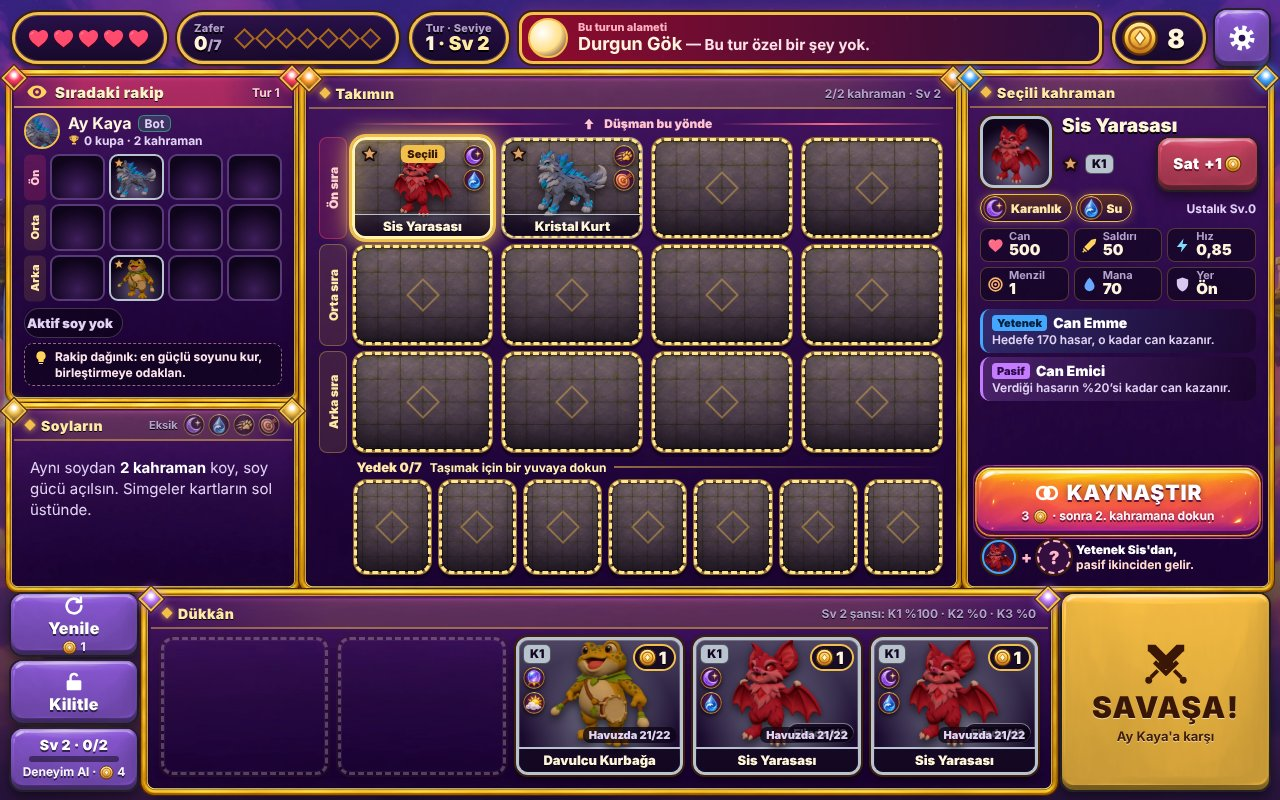
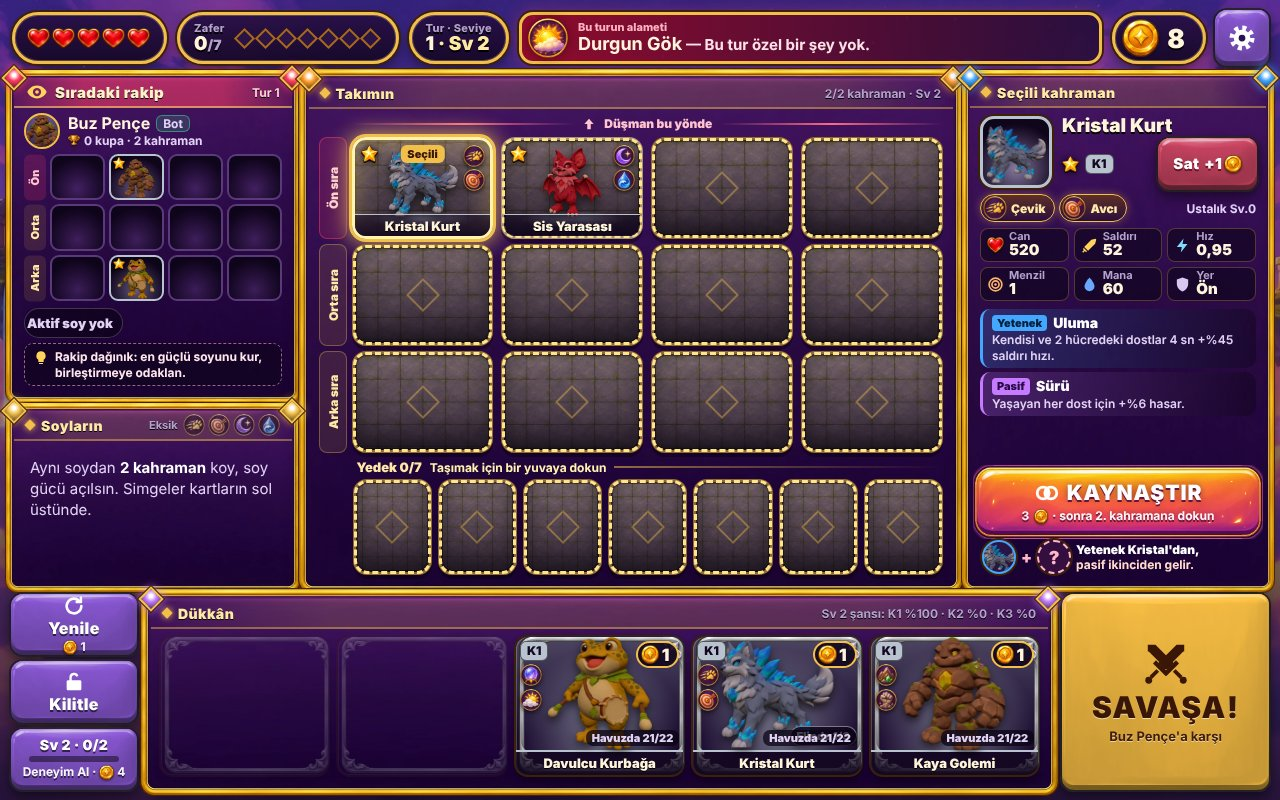
Kut Arena: HUD simgeleri, 8 alamet resmi, kademe renkli kart çerçevesi ve dönen Kut ışın halkası
Claude-Session: https://claude.ai/code/session_013YjY38u1QoWroDMBh9Egyh

diff --git a/kut/web/arayuz.js b/kut/web/arayuz.js
@@ -8,7 +8,9 @@ const oyun = new Oyun();
 const $ = (id) => document.getElementById(id);
 const q = (sel, kok = document) => kok.querySelector(sel);
 const P = (id) => `../arayuz/portre/${id}.png`, SY = (id) => `../arayuz/soy_${id}.png`;
-const ik = (n, c = '') => `<svg class="ik ${c}"><use href="#i-${n}"/></svg>`;
+const IK_RESIM = { coin: 'ik_altin', kalp: 'ik_kalp', kupa: 'ik_kupa', tac: 'ik_tac', yildiz: 'ik_yildiz_altin' };
+const ik = (n, c = '') => IK_RESIM[n] ? `<img class="ik ${c}" alt="" src="../arayuz/ui/${IK_RESIM[n]}${n === 'kalp' && /\bbos\b/.test(c) ? '_bos' : ''}.png">` : `<svg class="ik ${c}"><use href="#i-${n}"/></svg>`;
+const alametArka = (id) => `background:url(../arayuz/ui/al_${id}.png) center/cover`;
 const yildiz = (s) => `<div class="yildizlar y${s}">${ik('yildiz').repeat(s)}</div>`;
 const soyIk = (s) => `<img class="soyIk" src="${SY(s)}" alt="${D.SOYLAR[s].ad}">`;
 const mad = (id) => `<div class="madalyon"><img src="${P(id)}" alt=""></div>`;
@@ -138,7 +140,7 @@ function macCiz() {
   roz[1].innerHTML = `<div class="yz"><small>Zafer</small>${M.zafer}<span style="color:var(--soluk);font-size:14px">/${kr.zaferHedef}</span></div><div class="zaferler">${Array.from({ length: kr.zaferHedef }, (_, i) => `<i class="${i < M.zafer ? 'v' : ''}"></i>`).join('')}</div>`;
   roz[2].innerHTML = `<div class="yz"><small>${sev ? 'Tur · Seviye' : 'Hızlı Maç · Tur'}</small>${M.tur}${sev ? ` <span style="color:var(--altinA)">· Sv ${M.seviye}</span>` : ''}</div>`;
   const al = D.ALAMETLER.find(a => a.id === M.alamet);
-  q('.alamet', m).innerHTML = `<div class="ay" style="background:radial-gradient(circle at 35% 35%,#fff,${ALAMET_RENK[M.alamet]} 55%,#3a0820)"></div><div class="t"><small>Bu turun alameti</small><b>${al.ad}</b> <span>— ${al.m}</span></div>`;
+  q('.alamet', m).innerHTML = `<div class="ay resim" style="${alametArka(M.alamet)}"></div><div class="t"><small>Bu turun alameti</small><b>${al.ad}</b> <span>— ${al.m}</span></div>`;
   q('.altinRozet', m).innerHTML = `<div class="top">${ik('coin')}</div>${M.altin}`;
   // rakip
   const r = M.rakip, rp = q('.rakip', m);
@@ -285,7 +287,7 @@ async function savasBaslat(sim, rakip) {
   Ses.cal('savas_basla');
   const s = $('savas');
   q('.rakipK', s).innerHTML = `<div class="amb"><img src="${P((rakip.takim || [])[0] ? rakip.takim[0].h : 'tilki')}" alt=""></div><div style="min-width:0"><small>${rakip.duello ? 'Düello' : 'Rakip · Tur ' + oyun.M.tur}</small><b>${rakip.ad}</b><span>${rakip.kaynak === 'bot' ? 'Bot' : 'Kupa ' + sayi(rakip.kupa || 0)}</span></div>`;
-  const a = savasBilgi.alamet; q('.alametK', s).innerHTML = `<span class="ay" style="background:radial-gradient(circle at 35% 35%,#fff,${ALAMET_RENK[a.id]} 55%,#3a0820)"></span><div><b>${a.ad}</b><span>${a.m}</span></div>`;
+  const a = savasBilgi.alamet; q('.alametK', s).innerHTML = `<span class="ay resim" style="${alametArka(a.id)}"></span><div><b>${a.ad}</b><span>${a.m}</span></div>`;
   if (!savasDongu) { savasDongu = true; requestAnimationFrame(savasKare); }
 }
 function hizUygula() { S3.hiz(duraklat ? 0 : hizSecim); document.querySelectorAll('#savas .hizlar .btn').forEach((b, i) => { b.classList.toggle('secik', i + 1 === hizSecim); b.classList.toggle('altin', i + 1 === hizSecim); b.classList.toggle('mor', i + 1 !== hizSecim); }); q('#savas .duraklat .btn').innerHTML = ik(duraklat ? 'oyna' : 'durdur'); }

diff --git a/kut/web/index.html b/kut/web/index.html
@@ -615,6 +615,12 @@ button{font:inherit;color:inherit;border:0;background:none;cursor:pointer}
 .kut{background:url(../arayuz/ui/w_kut_hazir.png) center/contain no-repeat;border:0;box-shadow:none;filter:drop-shadow(0 0 24px rgba(255,170,60,.75)) drop-shadow(0 6px 10px rgba(0,0,0,.5))}
 .kut.bitti{background:url(../arayuz/ui/w_kut_bitti.png) center/contain no-repeat;box-shadow:none;filter:drop-shadow(0 6px 10px rgba(0,0,0,.5))}
 .kut .yz big{text-shadow:0 2px 0 rgba(255,240,200,.8),0 0 10px rgba(255,255,255,.6)}
+.kart{border:0;border-image:url(../arayuz/ui/w_kart_k1.png) 64 / 22px / 2px stretch}
+.kart.k2{border-image-source:url(../arayuz/ui/w_kart_k2.png)}.kart.k3{border-image-source:url(../arayuz/ui/w_kart_k3.png)}
+.kut .isin{inset:-22px;border-radius:0;background:url(../arayuz/ui/w_kut_isin.png) center/contain no-repeat;-webkit-mask:none;mask:none}
+.kut.bitti .isin{display:none}
+img.ik{object-fit:contain;filter:drop-shadow(0 1px 1px rgba(0,0,0,.5))}
+.ay.resim{background-size:cover!important;border:0;box-shadow:0 0 10px rgba(0,0,0,.4)}
 </style>
 </head>
 <body>
